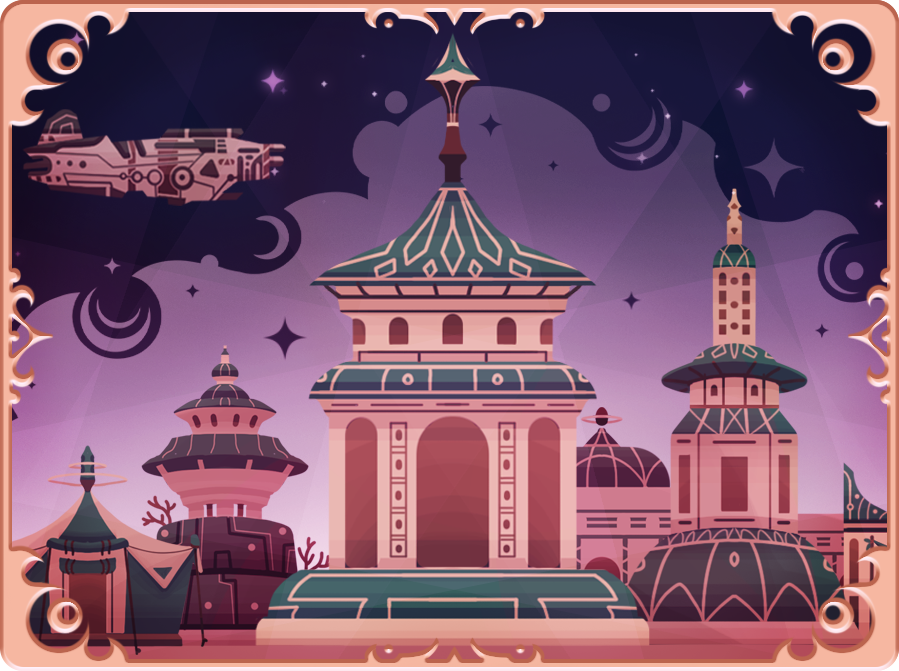
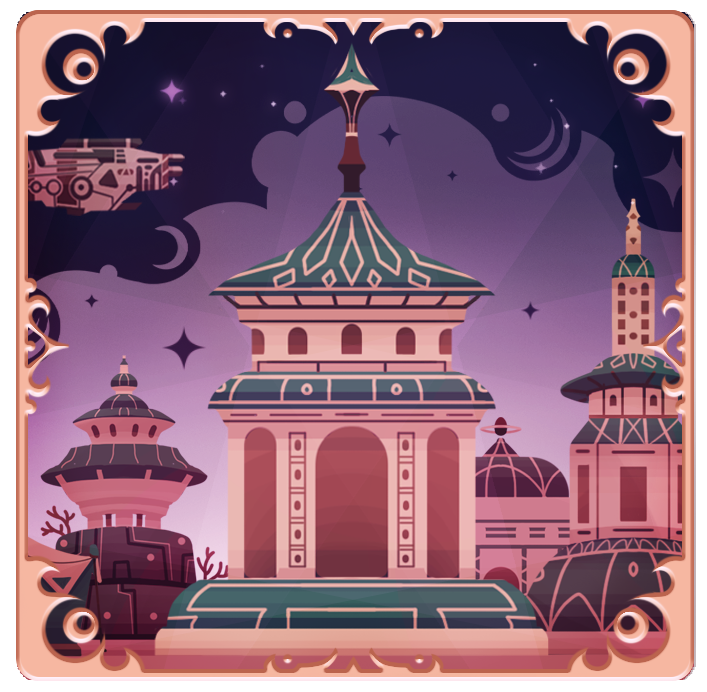
Updated with new Card size

diff --git a/src/pages/BattlePage.jsx b/src/pages/BattlePage.jsx
@@ -11,23 +11,22 @@ import SkillF from "../assets/Images/SkillFrame.png";
 import NImg from "../assets/Images/NoImg.png";
 import Left from "../assets/Images/Left_Gem.png";
 import Right from "../assets/Images/Right_Gem.png";
-import Del from "../assets/Images/Delete_Gem.png";
 import Circle from "../assets/Images/circle.png";
-import BronzeSmall from "../assets/CardFrames/Bronze_Frame_Small.png";
-import BronzeMedium from "../assets/CardFrames/Bronze_Frame_Medium.png";
-import BronzeLarge from "../assets/CardFrames/Bronze_Frame_Big.png";
-import SilverSmall from "../assets/CardFrames/Silver_Frame_Small.png";
-import SilverMedium from "../assets/CardFrames/Silver_Frame_Medium.png";
-import SilverLarge from "../assets/CardFrames/Silver_Frame_Big.png";
-import GoldSmall from "../assets/CardFrames/Gold_Frame_Small.png";
-import GoldMedium from "../assets/CardFrames/Gold_Frame_Medium.png";
-import GoldLarge from "../assets/CardFrames/Gold_Frame_Big.png";
-import DiamondSmall from "../assets/CardFrames/Diamond_Frame_Small.png";
-import DiamondMedium from "../assets/CardFrames/Diamond_Frame_Medium.png";
-import DiamondLarge from "../assets/CardFrames/Diamond_Frame_Big.png";
-import LegendarySmall from "../assets/CardFrames/Legendary_Frame_Small.png";
-import LegendaryMedium from "../assets/CardFrames/Legendary_Frame_Medium.png";
-import LegendaryLarge from "../assets/CardFrames/Legendary_Frame_Big.png";
+import BronzeSmall from "../assets/CardFrames/Bronze_Frame_V3_S.png";
+import BronzeMedium from "../assets/CardFrames/Bronze_Frame_V3_M.png";
+import BronzeLarge from "../assets/CardFrames/Bronze_Frame_V3_B.png";
+import SilverSmall from "../assets/CardFrames/Silver_Frame_V3_S.png";
+import SilverMedium from "../assets/CardFrames/Silver_Frame_V3_M.png";
+import SilverLarge from "../assets/CardFrames/Silver_Frame_V3_B.png";
+import GoldSmall from "../assets/CardFrames/Gold_Frame_V3_S.png";
+import GoldMedium from "../assets/CardFrames/Gold_Frame_V3_M.png";
+import GoldLarge from "../assets/CardFrames/Gold_Frame_V3_B.png";
+import DiamondSmall from "../assets/CardFrames/Diamond_Frame_V3_S.png";
+import DiamondMedium from "../assets/CardFrames/Diamond_Frame_V3_M.png";
+import DiamondLarge from "../assets/CardFrames/Diamond_Frame_V3_B.png";
+import LegendarySmall from "../assets/CardFrames/Legendary_Frame_V3_S.png";
+import LegendaryMedium from "../assets/CardFrames/Legendary_Frame_V3_M.png";
+import LegendaryLarge from "../assets/CardFrames/Legendary_Frame_V3_B.png";
 
 export default function BattlePage() {
   const [isSkillsModalOpen, setIsSkillsModalOpen] = useState(false);
@@ -1117,7 +1116,7 @@ export default function BattlePage() {
           const cleanedName = item.name.replace(/[^a-zA-Z0-9]/g, "");
           return {
             name: item.name,
-            image: `/Items/${cleanedName}.avif`,
+            image: `/items/${cleanedName}.avif`,
             size,
             attributes: item.attributes,
             hero,
@@ -1445,7 +1444,7 @@ export default function BattlePage() {
             )}
           </div>
         </div>
-        <div className="flex flex-col gap-4 mt-[110px] ml-[240px]">
+        <div className="flex flex-col gap-4 mt-[95px] ml-[240px]">
           {/* Deck Containers */}
           <div
             className="w-full max-w-6xl p-6 rounded-lg bg-no-repeat bg-cover -mt-20 -ml-0"
@@ -1455,7 +1454,7 @@ export default function BattlePage() {
               <div
                 key={deckType}
                 className={`w-full max-w-8xl p-6 rounded-lg ${
-                  index == 1 ? "mt-[30px]" : ""
+                  index == 1 ? "mt-[5px]" : ""
                 }`}
               >
                 {/* Center-aligned Slots */}
@@ -1507,7 +1506,7 @@ export default function BattlePage() {
                                   deckType === "enemy" ? enemyDeck : ourDeck
                                 )
                               ? "opacity-20 hover:opacity-100" // Empty slots at 20% if deck has cards
-                              : "opacity-0 hover:opacity-100" // Empty slots at 0% if deck is empty
+                              : "opacity-0 hover:opacity-100"
                           }`}
                           style={{
                             width:
@@ -1515,13 +1514,13 @@ export default function BattlePage() {
                               !hasCards(
                                 deckType === "enemy" ? enemyDeck : ourDeck
                               )
-                                ? "267.75px" // Large width for empty deck first slot
+                                ? "233px" // Large width for empty deck first slot (reduced by 10%)
                                 : card && card.size === "medium"
-                                ? "182.07px"
+                                ? "156px" // Medium width reduced by 10%
                                 : card && card.size === "large"
-                                ? "267.75px"
-                                : "87.82px",
-                            height: "128.52px",
+                                ? "233px" // Large width reduced by 10%
+                                : "82px", // Small width reduced by 10%
+                            height: "156px", // Height reduced by 10%
                             backgroundImage:
                               index === 0 &&
                               !hasCards(
@@ -1705,7 +1704,7 @@ export default function BattlePage() {
           </div>
         </div>
         {/* Player Section - Mirror of Enemy Section */}
-        <div className="flex items-center justify-between p-6 rounded-xl mt-3 relative h-[210px] bottom-[79px] left-[300px]">
+        <div className="flex items-center justify-between p-6 rounded-xl mt-3 relative h-[210px] bottom-[88px] left-[300px]">
           {/* Left Side - Chest */}
           <div className="flex-none">
             <button

diff --git a/src/pages/HeroPage.jsx b/src/pages/HeroPage.jsx
@@ -1,0 +1,82 @@
+import React from 'react';
+
+const HeroInfoPage = () => {
+  return (
+    <div className="min-h-screen bg-gray-900 relative overflow-hidden">
+      {/* Background Image */}
+      <div className="fixed inset-0 w-full h-full">
+        <img 
+          src="/src/assets/Images/HeroBG.png"
+          alt="" 
+          className="w-full h-full object-cover"
+        />
+      </div>
+
+      {/* Content Container */}
+      <div className="relative z-10 flex flex-col lg:flex-row h-screen p-6 lg:p-16 items-center justify-center">
+        {/* Left Side: Text Content */}
+            <div className=" ml-[120px] w-[500px] lg:w-1/2 space-y-10 p-6">
+              <div>
+                <h1 className="text-3xl lg:text-4xl text-purple-300 font-bold mb-4">
+                  El: The Hero Of Time And Space
+                </h1>
+                <p className="text-gray-300 mb-6">
+                This hero harnesses the power of time and space manipulation to gain the upper hand.
+                </p>
+              </div>
+              
+              <div>
+                <h2 className="text-2xl lg:text-3xl text-purple-300 font-bold mb-4">
+                  Hero Ability: Temporal Erasure
+                </h2>
+                <p className="text-gray-300">
+                Tired of seeing the same items over and over again in the shop? 
+                <br/>
+                Now you can erase them from existence!
+                <br/>
+                This new mechanic lets you shrink the item pool, making it easier to find exactly what you're looking for.
+                </p>
+              </div>
+            </div>
+
+            {/* Right Side: Hero Image */}
+            <div className="w-full lg:w-1/2 flex justify-center items-center">
+              <img 
+                src="/src/assets/Images/EL.gif" 
+                alt="El: The Hero Of Time And Space"
+                className="max-h-96 lg:max-h-screen object-contain bg-transparent"
+              />
+            </div>
+              </div>
+
+              {/* Floating elements/particles */}
+      <div className="absolute inset-0 pointer-events-none">
+        {[...Array(50)].map((_, index) => (
+          <div
+            key={index}
+            className="absolute w-2 h-2 bg-purple-500 opacity-30 rounded-md transform rotate-45"
+            style={{
+              top: `${Math.random() * 100}%`,
+              left: `${Math.random() * 100}%`,
+              animation: `float ${3 + Math.random() * 5}s infinite ease-in-out ${Math.random() * 2}s`
+            }}
+          />
+        ))}
+      </div>
+
+      {/* CSS Animation */}
+      <style jsx>{`
+        @keyframes float {
+          0%, 100% {
+            transform: translateY(0) rotate(45deg);
+          }
+          50% {
+            transform: translateY(-20px) rotate(45deg);
+          }
+        }
+      `}</style>
+    </div>
+  );
+};
+
+export default HeroInfoPage;

diff --git a/src/pages/UpcomingFeaturesPage.jsx b/src/pages/UpcomingFeaturesPage.jsx
@@ -1,6 +1,8 @@
 import React from "react";
 import Bread from "../assets/Images/BreadBG.png";
 import Banner from "../assets/Images/Banner.png";
+import { Link } from 'react-router-dom';
+
 
 const UpcomingFeatures = ({ setCurrentPage }) => {
   return (
@@ -59,24 +61,22 @@ const UpcomingFeatures = ({ setCurrentPage }) => {
             </div>
             
             {/* Feature Item 3 */}
-            <div className="feature-item">
-              <h2 className="text-[#e0ac54] text-3xl font-bold mb-4">El: New Space and Time Hero</h2>
-              <div className="flex items-center text-lg">
-              <a
-                  href="/hero-info"
-                  target="_blank"
-                  className="text-[#e0ac54] hover:text-[#F1D5BD]"
-                >
-                Click here &nbsp;
-                </a>
-                <span className="text-white">
-                   to discover how this hero harnesses the power of time and space manipulation to gain the upper hand.
-                </span>
-               
-              </div>
-            </div>
-            
-            {/* Feature Item 4 */}
+                  <div className="feature-item">
+                    <h2 className="text-[#e0ac54] text-3xl font-bold mb-4">El: New Space and Time Hero</h2>
+                    <div className="flex items-center text-lg">
+                    <Link
+                      to="/hero-info"
+                      className="text-[#e0ac54] hover:text-[#F1D5BD]"
+                    >
+                      Click here &nbsp;
+                    </Link>
+                    <span className="text-white">
+                       to discover how this hero harnesses the power of time and space manipulation to gain the upper hand.
+                    </span>
+                    </div>
+                  </div>
+                  
+                  {/* Feature Item 4 */}
             <div className="feature-item">
               <h2 className="text-[#e0ac54] text-3xl font-bold mb-4">Deck Optimizer</h2>
               <p className="text-white text-lg">

diff --git a/src/App.jsx b/src/App.jsx
@@ -1,16 +1,19 @@
 import { useState } from "react";
+import { BrowserRouter, Routes, Route } from "react-router-dom";
 import Navigation from "./components/Navigation";
 import BattlePage from "./pages/BattlePage";
 import FAQPage from "./pages/FAQPage";
 import UpcomingFeaturesPage from "./pages/UpcomingFeaturesPage";
+import HeroInfoPage from "./pages/HeroPage";
 import Background from "./assets/Images/BG.png";
 import BBG from "./assets/Images/BattleBG.png";
 import Logo from "./assets/Images/Logo.png";
 import "./App.css";
+
 export default function App() {
   const [currentPage, setCurrentPage] = useState("battle");
 
-  return (
+  const MainContent = () => (
     <div className="min-h-screen bg-gray-900">
       <div className="fixed inset-0 w-full h-full">
         <img 
@@ -40,5 +43,14 @@ export default function App() {
         )}
       </div>
     </div>
+  );
+
+  return (
+    <BrowserRouter>
+      <Routes>
+        <Route path="/" element={<MainContent />} />
+        <Route path="/hero-info" element={<HeroInfoPage />} />
+      </Routes>
+    </BrowserRouter>
   );
 }
